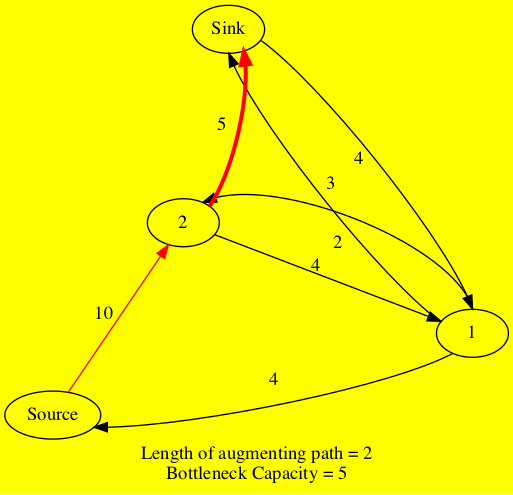
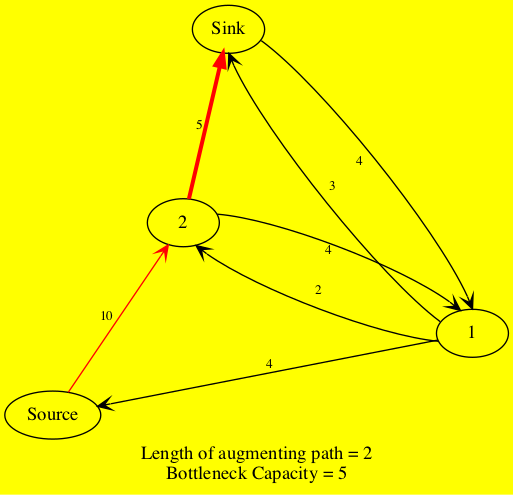
decreased fontsize for edge labels to handle overlap

diff --git a/pythons/Edmond_Karp_Residual.py b/pythons/Edmond_Karp_Residual.py
@@ -15,8 +15,7 @@ def makeGraph(C, F, path, flow, s, t, rGraphName):
     graph.get_node(str(s))[0].set_label("Source")
     graph.get_node(str(t))[0].set_label("Sink")
 
-    for i in range(n-1):
-        graph.add_edge(pydot.Edge(str(i), str(i+1), style = 'invis'))
+    # Forcing source to be at top and sink to be at bottom of the graph
     subg=pydot.Subgraph(rank='source')
     subg.add_node(pydot.Node(str(s)))
     graph.add_subgraph(subg)
@@ -29,11 +28,11 @@ def makeGraph(C, F, path, flow, s, t, rGraphName):
             if (C[i][j] - F[i][j])>0 :
                 if path is not None and ((i,j) in path):
                     if (C[i][j] - F[i][j] == flow):
-                        graph.add_edge(pydot.Edge(str(i), str(j), label= str(C[i][j] - F[i][j]) , color = "red" , penwidth = 3))    #bottleneck edge
+                        graph.add_edge(pydot.Edge(str(i), str(j), label= str(C[i][j] - F[i][j]) , fontsize="10.0",color = "red" , penwidth = 3))    #bottleneck edge
                     else:
-                        graph.add_edge(pydot.Edge(str(i), str(j), label= str(C[i][j] - F[i][j]) , color = "red" ))                  #augmenting path but not bottleneck
+                        graph.add_edge(pydot.Edge(str(i), str(j), label= str(C[i][j] - F[i][j]) , fontsize="10.0",color = "red",arrowhead='vee' ))                  #augmenting path but not bottleneck
                 else:
-                    graph.add_edge( pydot.Edge(str(i), str(j), label= str(C[i][j] - F[i][j])) )
+                    graph.add_edge( pydot.Edge(str(i), str(j), label= str(C[i][j] - F[i][j]),fontsize="10.0",arrowhead='vee') )
 
     graph.write(rGraphName, prog='fdp', format='png')
 

diff --git a/pythons/Edmond_Karp_Flow.py b/pythons/Edmond_Karp_Flow.py
@@ -1,3 +1,4 @@
+from cProfile import label
 import pydot
 
 def makeGraph(C, F, s, t, fGraphName):
@@ -11,8 +12,7 @@ def makeGraph(C, F, s, t, fGraphName):
     graph.get_node(str(s))[0].set_label("Source")
     graph.get_node(str(t))[0].set_label("Sink")
 
-    for i in range(n-1):
-        graph.add_edge(pydot.Edge(str(i), str(i+1), style = 'invis'))
+    # Forcing source to be at top and sink to be at bottom of the graph
     subg=pydot.Subgraph(rank='source')
     subg.add_node(pydot.Node(str(s)))
     graph.add_subgraph(subg)
@@ -24,8 +24,7 @@ def makeGraph(C, F, s, t, fGraphName):
     for i in range(n):
         for j in range(n):
             if (C[i][j]!=0) or (F[i][j]!=0):
-                # graph.add_edge(pydot.Edge(str(i), str(j), label="C= "+str(C[i][j])+" : F= "+str(F[i][j]) ))
-                graph.add_edge(pydot.Edge(str(i), str(j), label=str(C[i][j])+"/"+str(F[i][j]) ))
+                graph.add_edge(pydot.Edge(str(i), str(j), label=str(C[i][j])+"/"+str(F[i][j]),fontsize="10.0",arrowhead='vee' ))
 
     graph.write(fGraphName, prog='fdp', format='png')
     
